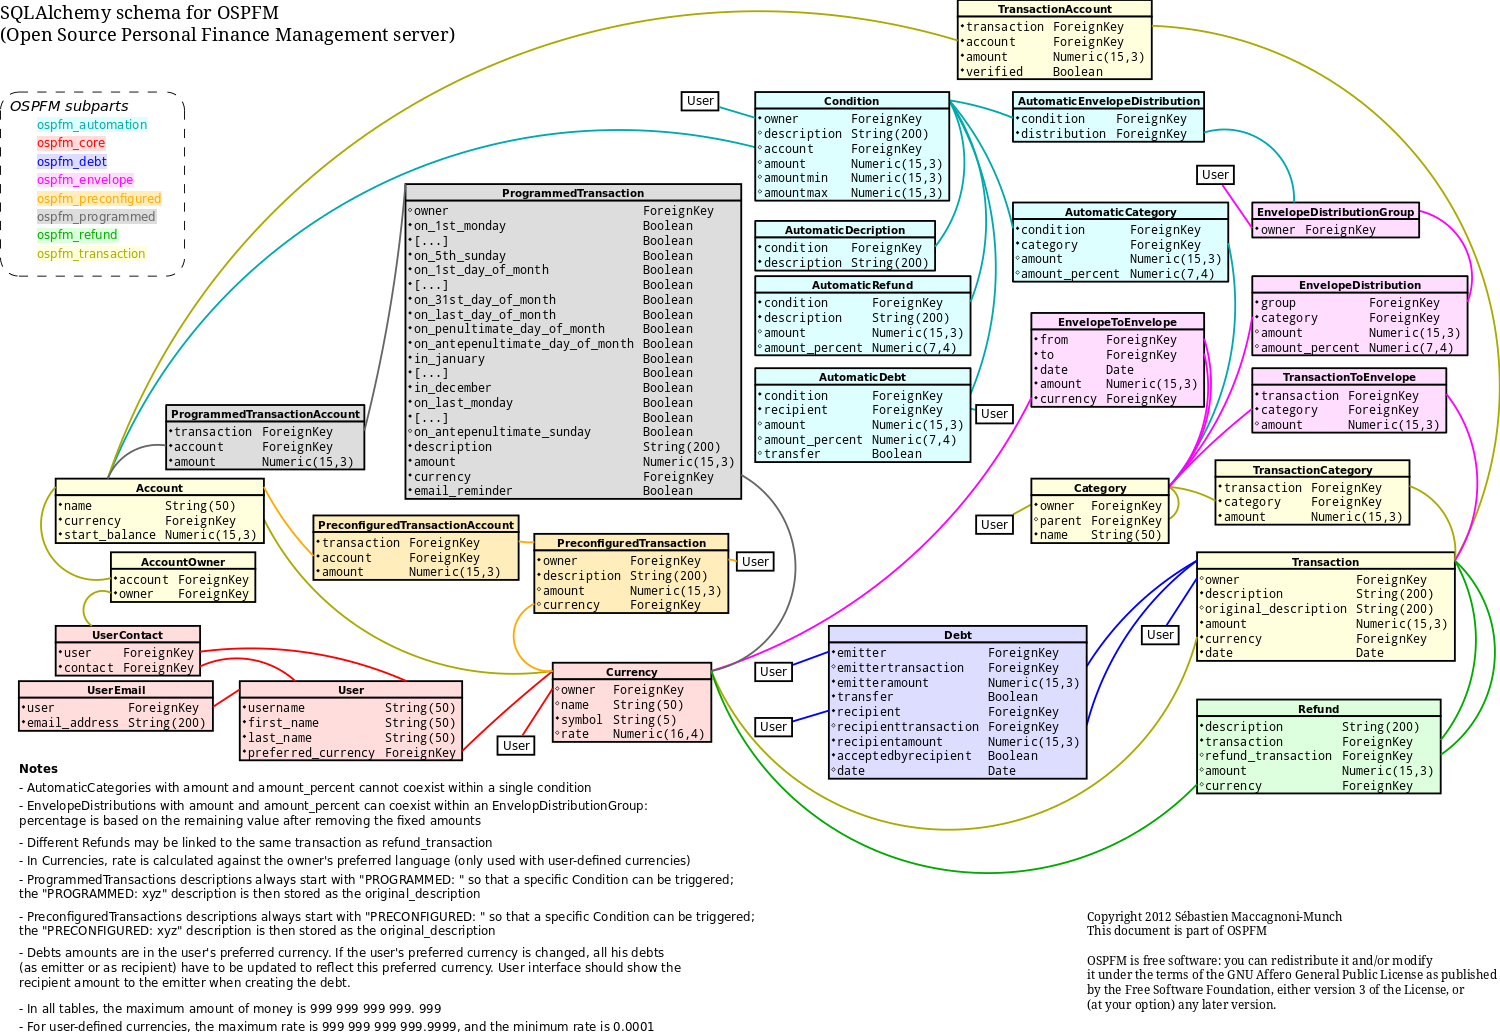
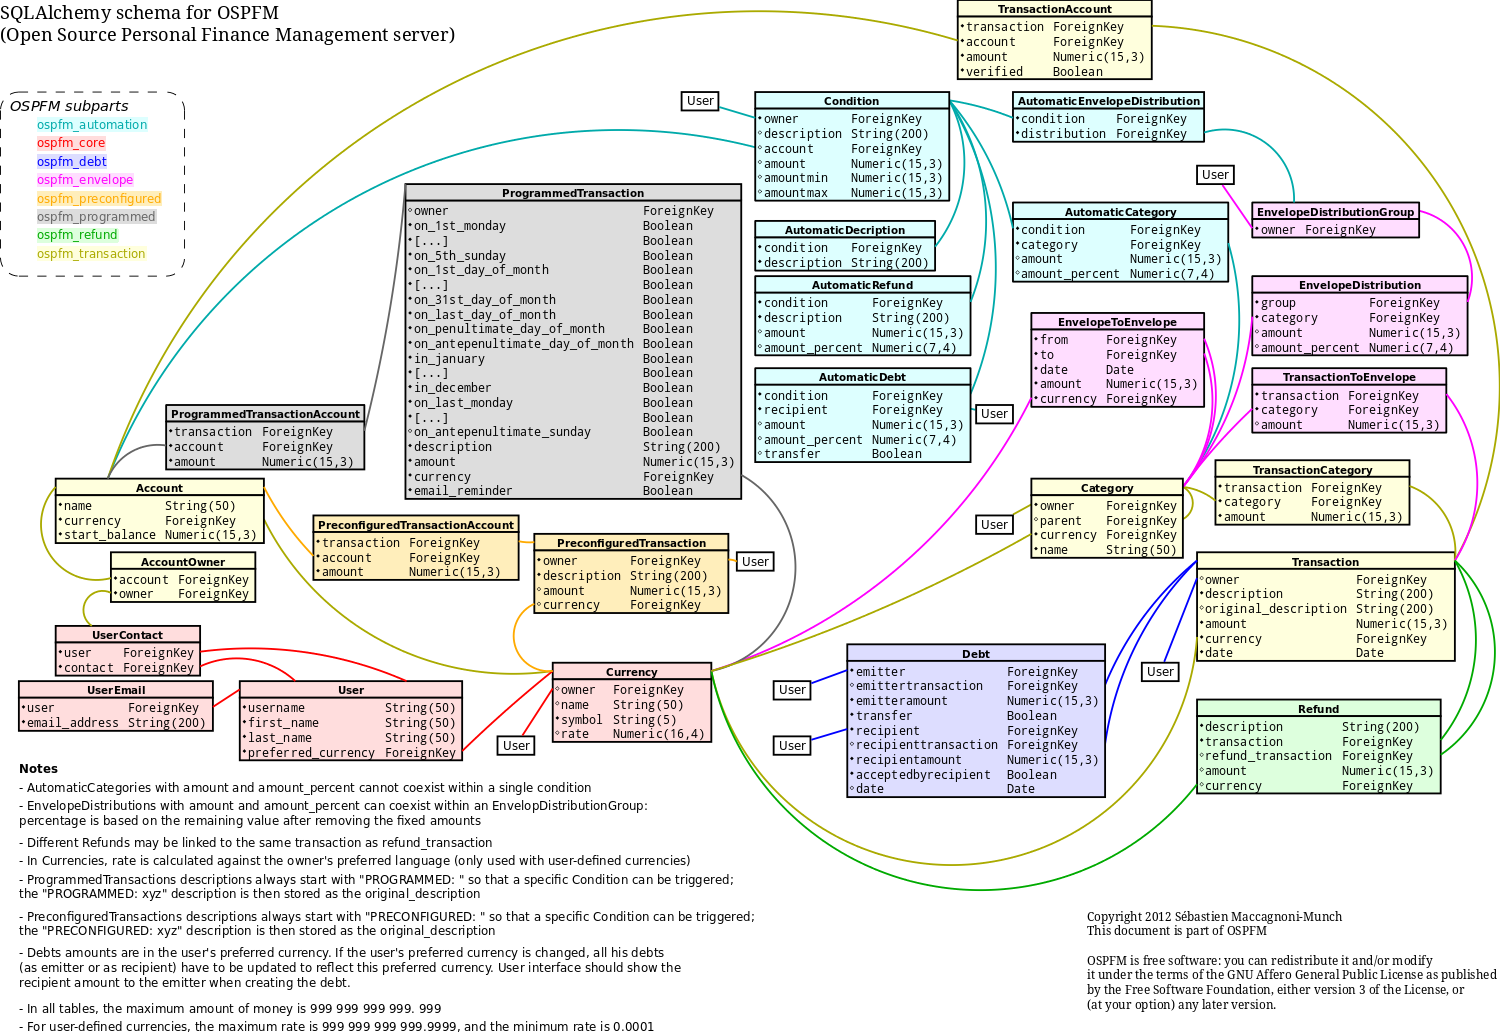
Assign a currency to a category + other improvements

diff --git a/ospfm/transaction/models.py b/ospfm/transaction/models.py
@@ -35,13 +35,20 @@ class Account(Base):
     transactions_account = relationship('TransactionAccount',
                                         cascade='all, delete-orphan')
 
-    def as_dict(self):
-        return {
-            'id': self.id,
-            'name': self.name,
-            'currency': self.currency.symbol,
-            'start_balance': self.start_balance
-        }
+    def as_dict(self, short=False):
+        if short:
+            return {
+                'id': self.id,
+                'name': self.name,
+                'currency': self.currency.symbol,
+            }
+        else:
+            return {
+                'id': self.id,
+                'name': self.name,
+                'currency': self.currency.symbol,
+                'start_balance': self.start_balance
+            }
 
 
 class AccountOwner(Base):
@@ -58,23 +65,28 @@ class Category(Base):
     id = Column(Integer, primary_key=True)
     owner_username = Column(ForeignKey('user.username'), nullable=False)
     parent_id = Column(ForeignKey('category.id'))
+    currency_id = Column(ForeignKey('currency.id'))
     name = Column(String(50), nullable=False)
 
     owner = relationship('User')
     children = relationship('Category',
                             backref=backref('parent', remote_side=[id]),
                             order_by='Category.name')
+    currency = relationship('Currency')
 
-    # XXX When defining relationships, don't forget "DELETE CASCADE"
+    # When deleting a category, delete all its associations to transactions
+    transactions_category = relationship('TransactionCategory',
+                                         cascade='all, delete-orphan')
 
-    def as_dict(self, parent=True):
+    def as_dict(self, parent=True, children=True):
         desc = {
             'id': self.id,
             'name': self.name,
+            'currency': self.currency.symbol
         }
         if parent and self.parent_id:
             desc['parent'] = self.parent_id
-        if self.children:
+        if children and self.children:
             desc['children'] = [c.as_dict(False) for c in self.children]
         return desc
 
@@ -93,13 +105,30 @@ class Transaction(Base):
     id = Column(Integer, primary_key=True)
     owner_username = Column(ForeignKey('user.username'), nullable=False)
     description = Column(String(200), nullable=False)
-    original_description = Column(String(200))
+    original_description = Column(String(200), nullable=False)
     amount = Column(Numeric(15, 3), nullable=False)
     currency_id = Column(ForeignKey('currency.id'), nullable=False)
     date = Column(Date, nullable=False)
 
     owner = relationship('User')
     currency = relationship('Currency')
+
+    transaction_accounts = relationship('TransactionAccount',
+                                        cascade='all, delete-orphan')
+    transaction_categories = relationship('TransactionCategory',
+                                          cascade='all, delete-orphan')
+
+    def as_dict(self):
+        return {
+            'id': self.id,
+            'description': self.description,
+            'original_description': self.original_description,
+            'amount': self.amount,
+            'currency': self.currency.symbol,
+            'date': self.date.strftime('%Y-%m-%d'),
+            'accounts': [ta.as_dict() for ta in self.transaction_accounts],
+            'categories': [tc.as_dict() for tc in self.transaction_categories]
+        }
 
 class TransactionAccount(Base):
     __tablename__ = 'transactionaccount'
@@ -111,6 +140,12 @@ class TransactionAccount(Base):
     transaction = relationship('Transaction')
     account = relationship('Account')
 
+    def as_dict(self):
+        data = self.account.as_dict(short=True)
+        data['amount'] = self.amount
+        return data
+
+
 class TransactionCategory(Base):
     __tablename__ = 'transactioncategory'
     transaction_id = Column(ForeignKey('transaction.id'), primary_key=True)
@@ -119,3 +154,8 @@ class TransactionCategory(Base):
 
     transaction = relationship('Transaction')
     category = relationship('Category')
+
+    def as_dict(self):
+        data = self.category.as_dict(parent=False,children=False)
+        data['amount'] = self.amount
+        return data

diff --git a/createdb.py b/createdb.py
@@ -67,27 +67,30 @@ def populate_test_db():
                         alice_acct1, alice_acct2, bob_acct2, carol_acct3))
 
     # Categories
-    alicecat1 = transaction.Category(owner=alice, name='Car')
-    alicecat2 = transaction.Category(owner=alice, name='House')
-    alicecat3 = transaction.Category(owner=alice, name='Fun')
+    alicecat1 = transaction.Category(owner=alice, name='Car', currency=euro)
+    alicecat2 = transaction.Category(owner=alice, name='House', currency=euro)
+    alicecat3 = transaction.Category(owner=alice, name='Fun', currency=euro)
     alicecat4 = transaction.Category(owner=alice, parent=alicecat1,
-                                     name='Insurance')
+                                     name='Insurance', currency=euro)
     alicecat5 = transaction.Category(owner=alice, parent=alicecat1,
-                                     name='Fuel')
+                                     name='Fuel', currency=euro)
     alicecat6 = transaction.Category(owner=alice, parent=alicecat2,
-                                     name='Invoices')
+                                     name='Invoices', currency=euro)
     alicecat7 = transaction.Category(owner=alice, parent=alicecat6,
-                                     name='Electricity')
+                                     name='Electricity', currency=euro)
     alicecat8 = transaction.Category(owner=alice, parent=alicecat6,
-                                     name='Internet access')
+                                     name='Internet access', currency=euro)
     alicecat9 = transaction.Category(owner=alice, parent=alicecat3,
-                                     name='Danceclub')
-    bobcat1 = transaction.Category(owner=bob, name='Car')
-    bobcat2 = transaction.Category(owner=bob, name='Fun')
-    bobcat3 = transaction.Category(owner=bob, parent=bobcat1, name='Fuel')
-    bobcat4 = transaction.Category(owner=bob, parent=bobcat2, name='Books')
-    bobcat5 = transaction.Category(owner=bob, parent=bobcat2, name='Music')
-    carolcat1 = transaction.Category(owner=carol, name='House')
+                                     name='Danceclub', currency=euro)
+    bobcat1 = transaction.Category(owner=bob, name='Car', currency=euro)
+    bobcat2 = transaction.Category(owner=bob, name='Fun', currency=dollar)
+    bobcat3 = transaction.Category(owner=bob, parent=bobcat1,
+                                   name='Fuel', currency=euro)
+    bobcat4 = transaction.Category(owner=bob, parent=bobcat2,
+                                   name='Books', currency=dollar)
+    bobcat5 = transaction.Category(owner=bob, parent=bobcat2,
+                                   name='Music', currency=dollar)
+    carolcat1 = transaction.Category(owner=carol, name='House', currency=yen)
 
     db.session.add_all((
         alicecat1, alicecat2, alicecat3, alicecat4, alicecat5, alicecat6,

diff --git a/ospfm/transaction/category.py b/ospfm/transaction/category.py
@@ -15,8 +15,11 @@
 #    You should have received a copy of the GNU Affero General Public License
 #    along with OSPFM.  If not, see <http://www.gnu.org/licenses/>.
 
-from sqlalchemy import and_
+from sqlalchemy import and_, or_
+from sqlalchemy.orm import joinedload
 
+from ospfm.core import currency as currencylib
+from ospfm.core import models as core
 from ospfm.transaction import models
 from ospfm.database import session
 from ospfm.objects import Object
@@ -25,7 +28,9 @@ from ospfm.objects import Object
 class Category(Object):
 
     def __own_category(self, categoryid):
-        return models.Category.query.filter(
+        return models.Category.query.options(
+                        joinedload(models.Category.currency)
+               ).filter(
                     and_(
                         models.Category.owner_username == self.username,
                         models.Category.id == categoryid
@@ -35,6 +40,8 @@ class Category(Object):
     def list(self):
         categories = models.Category.query.order_by(
                         models.Category.name
+                     ).options(
+                        joinedload(models.Category.currency)
                      ).filter(
                         and_(
                             models.Category.owner_username == self.username,
@@ -53,6 +60,7 @@ class Category(Object):
         category = models.Category(
                         owner_username=self.username,
                         parent=parent,
+                        currency=self.args['currency'],
                         name=self.args['name']
                    )
         session.add(category)
@@ -71,6 +79,26 @@ class Category(Object):
             self.notfound()
         if self.args.has_key('name'):
             category.name = self.args['name']
+        if self.args.has_key('currency'):
+            currency = core.Currency.query.filter(
+                and_(
+                    core.Currency.symbol == self.args['currency'],
+                    or_(
+                        core.Currency.owner_username == self.username,
+                        core.Currency.owner == None
+                    )
+                )
+            ).first()
+            if currency:
+                rate = currencylib.Currency().subhttp_rate(
+                            category.currency.symbol,
+                            currency.symbol
+                       )
+                category.currency = currency
+                for tc in models.TransactionCategory.query.filter(
+                            models.TransactionCategory.category == category
+                          ).all():
+                    tc.amount = tc.amount * rate
         if self.args.has_key('parent'):
             if self.args['parent'] == 'NONE':
                 category.parent_id = None

diff --git a/doc/api/transaction/category.rst b/doc/api/transaction/category.rst
@@ -34,24 +34,29 @@ Example::
             "children": [
                 {
                     "id": 8,
+                    "currency": "EUR",
                     "name": "Fuel"
                 },
                 {
                     "id": 7,
+                    "currency": "EUR",
                     "name": "Insurance"
                 }
             ],
             "id": 1,
+            "currency": "EUR",
             "name": "Car"
         },
         {
             "children": [
                 {
                     "id": 10,
+                    "currency": "EUR",
                     "name": "Danceclub"
                 }
             ],
             "id": 3,
+            "currency": "EUR",
             "name": "Fun"
         },
         {
@@ -60,18 +65,22 @@ Example::
                     "children": [
                         {
                             "id": 14,
+                            "currency": "EUR",
                             "name": "Electricity"
                         },
                         {
                             "id": 15,
+                            "currency": "EUR",
                             "name": "Internet access"
                         }
                     ],
                     "id": 9,
+                    "currency": "EUR",
                     "name": "Invoices"
                 }
             ],
             "id": 2,
+            "currency": "EUR",
             "name": "House"
         }
     ]
@@ -94,6 +103,7 @@ Data
 
 * ``name``: name of the new category (max 50 chars)
 * ``parent``: unique id of the parent category (optional)
+* ``currency``: default currency for this category
 
 Response
 --------
@@ -104,6 +114,7 @@ If no parent is defined::
     "status": 200,
     "response": {
         "id": <new category unique id>,
+        "currency": "<currency symbol>",
         "name": "<new category name>"
     }
 }
@@ -115,6 +126,7 @@ If a parent is defined::
     "response": {
         "id": <new category unique id>,
         "parent": <parent unique id>,
+        "currency": "<currency symbol>",
         "name": "<new category name>"
     }
 }
@@ -146,18 +158,22 @@ Example::
                     "children": [
                         {
                             "id": 14,
+                            "currency": "EUR",
                             "name": "Electricity"
                         },
                         {
                             "id": 15,
+                            "currency": "EUR",
                             "name": "Internet access"
                         }
                     ],
                     "id": 9,
+                    "currency": "EUR",
                     "name": "Invoices"
                 }
             ],
             "id": 2,
+            "currency": "EUR",
             "name": "House"
         }
     }
@@ -183,6 +199,7 @@ All are optional
 
 * ``name``: new name of the new category (max 50 chars)
 * ``parent``: new parent of the category, or "NONE" to remove parent
+* ``currency``: default currency for this category
 
 Response
 --------
@@ -197,18 +214,22 @@ Example::
                     "children": [
                         {
                             "id": 14,
+                            "currency": "EUR",
                             "name": "Electricity"
                         },
                         {
                             "id": 15,
+                            "currency": "EUR",
                             "name": "Internet access"
                         }
                     ],
                     "id": 9,
+                    "currency": "EUR",
                     "name": "Invoices"
                 }
             ],
             "id": 2,
+            "currency": "EUR",
             "name": "House"
         }
     }
